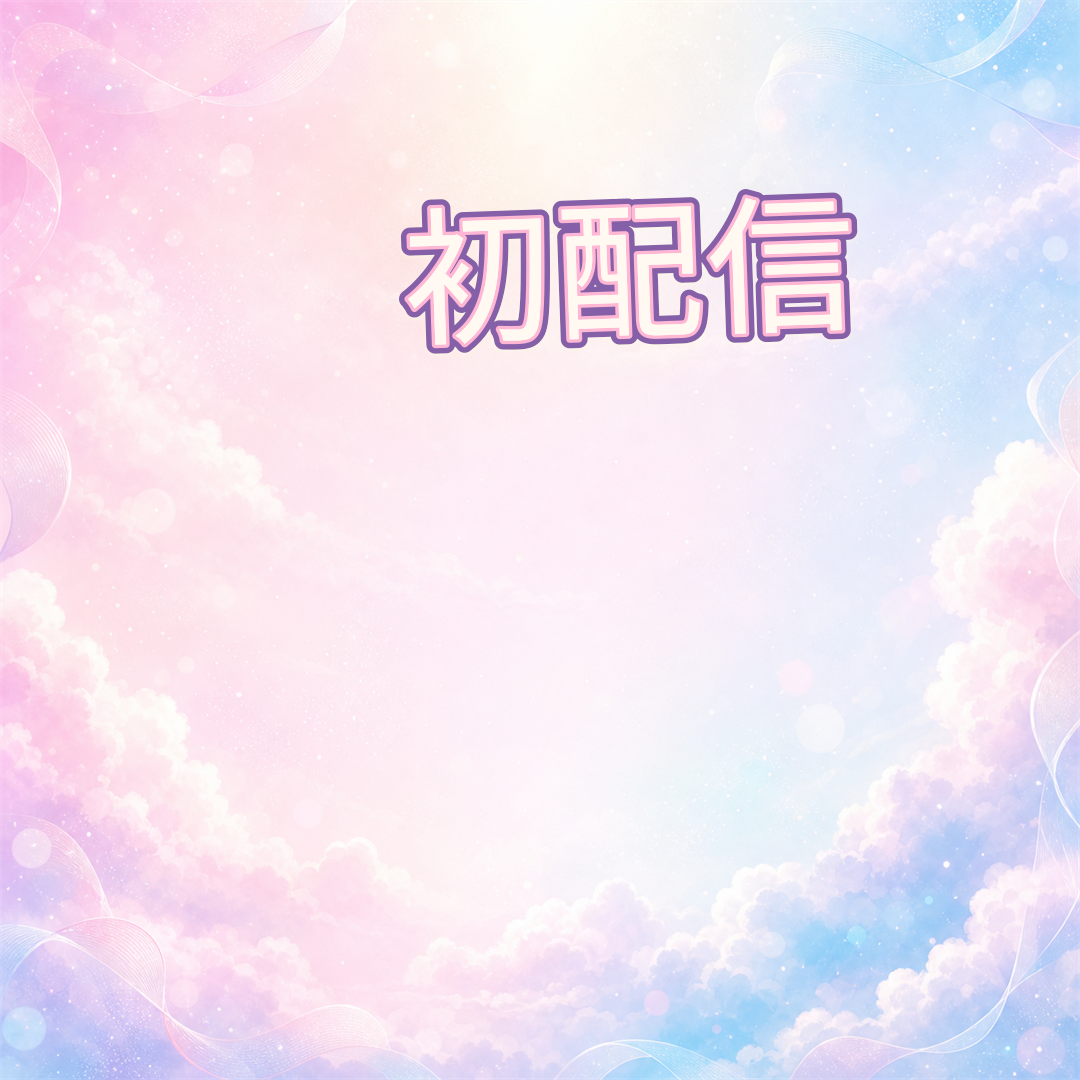
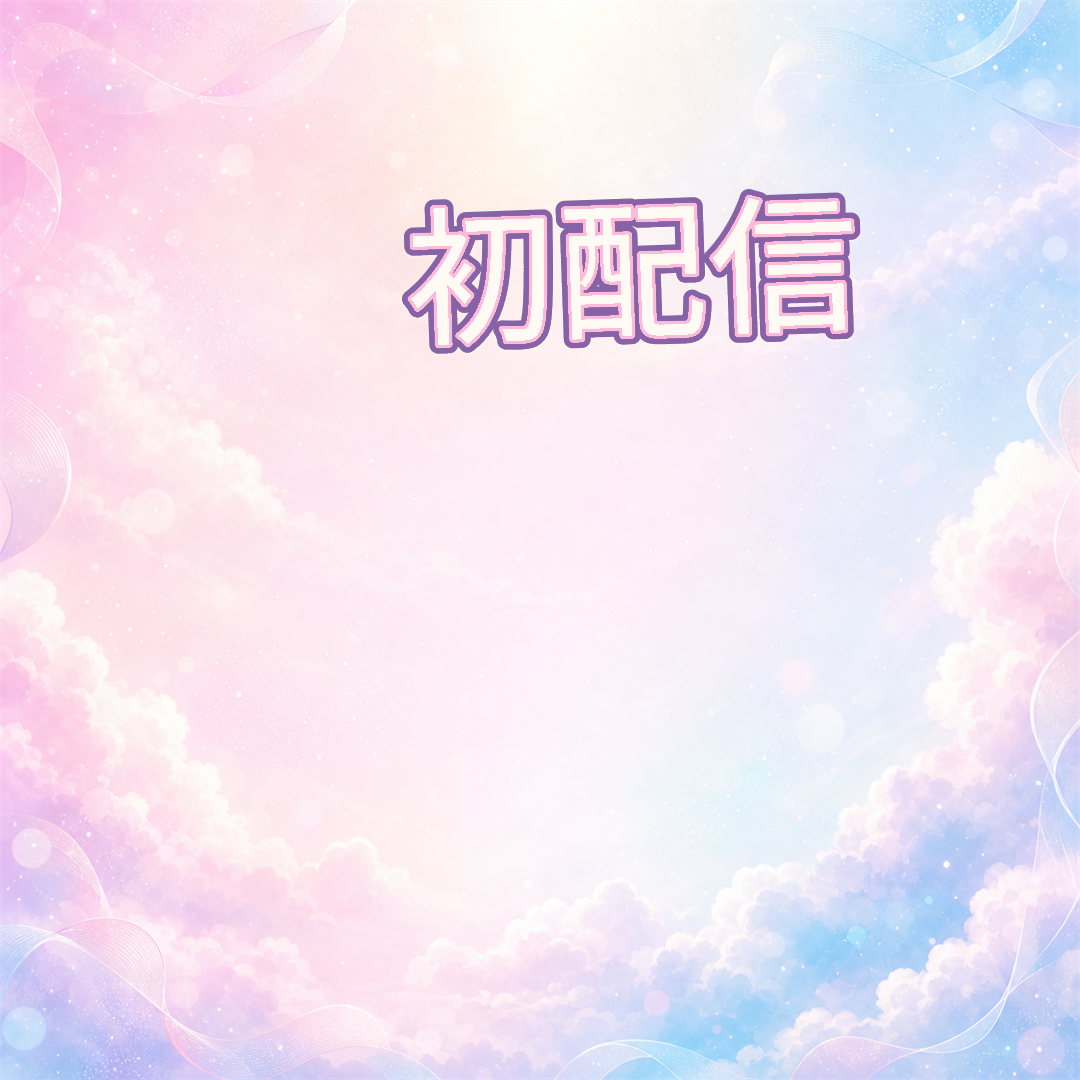
Add first stream IRIAM title colorways

Changed region(s): [[0.3667, 0.1833, 0.7333, 0.3361], [0.7639, 0.1833, 0.7944, 0.3056]]

diff --git a/task.md b/task.md
@@ -287,12 +287,12 @@
        - `node scripts/thumbnail-preset-discovery-contract.mjs` currently fails because that existing script still expects the category filter list before `membership_stream` / `asmr_stream` were added. This is not introduced by the `karaoke / square-1-1` change.
      - UI width checks for the reported 1:1 preview regression are recorded above.
 3. Thumbnail Editor title image / decoration asset phases
-   - status: `雑談` title image は `Yusei Magic`、`初配信` は `Mochiy Pop One`、`耐久` は `Dela Gothic One`、`闇ガチャ` は `New Tegomin` で確定。4フォントは selected title font として self-host 登録済み。次は各ジャンルを1つずつ5色カラバリへ進める。
+   - status: `初配信` title image 5色 slice を作成済み。`雑談` title image は `Yusei Magic`、`初配信` は `Mochiy Pop One`、`耐久` は `Dela Gothic One`、`闇ガチャ` は `New Tegomin` で確定。4フォントは selected title font として self-host 登録済み。次は残りジャンルを1つずつ5色カラバリへ進める。
    - title image:
      - 5ジャンル x 5色 = 25 transparent PNG 候補。
      - font 系統は `handwritten soft`（`Yusei Magic`）、`pop rounded`（`Mochiy Pop One` / `M PLUS Rounded 1c`）、`impact gothic`（`Dela Gothic One` / `Reggae One`）、`serif accent`（`Kaisei Opti` / `Noto Serif JP`）を基本にし、必要時だけ追加候補を検討する。
      - decoration policy: title image 内の星、ハート、リボン、小丸、カーブ線などの飾りは入れない。可読性のための fill / stroke / shadow のみで作る。
-     - next genre候補: `初配信`。`Mochiy Pop One` は方向が固まっているため、pink-blue 5色展開の前に 1:1 standee placeholder と重ねて過度に太すぎないか確認する。
+     - next genre候補: `雑談`。`Yusei Magic` 400 の方向が固まっており、同じ 5色 title image slice に切り出しやすい。
      - remaining risk: `耐久` は `Dela Gothic One` が汎用的な一方で、勢いを出すには stroke / shadow / rotation で補う必要がある。`闇ガチャ` は `New Tegomin` が有力だが、崩れを出しすぎると読みにくいため 5色展開前に dark background 上の縁取り太さを調整する。
      - 2026-05-24 visual check: selected baseline previews were re-opened locally:
        - `docs/mockups/thumbnail-editor-iriam-square-title-images/chatting/chatting-title-yusei-magic-mint-on-pop-bubble-preview.png`
@@ -301,6 +301,22 @@
        - `docs/mockups/thumbnail-editor-iriam-square-title-images/dark-gacha/dark-gacha-title-new-tegomin-glyph-verified-purple-on-dark-cute-preview.png`
      - 2026-05-24 verification: `node scripts/thumbnail-font-policy-contract.mjs`, `node scripts/thumbnail-iriam-karaoke-square-preset-contract.mjs`, `npx tsc --noEmit`, and `git diff --check` passed. `git diff --check` reported only LF/CRLF normalization warnings for touched files.
      - 2026-05-24 font asset check: selected title font files were re-downloaded with `font/woff2` accept headers and verified as WOFF2 (`wOF2`) before final verification.
+     - 2026-05-24 `初配信` 5色 title image slice:
+       - created title images:
+         - `public/assets/images/thumbnail-editor/iriam-square/first-stream/titles/first-stream-square-title-pink-blue-v1.png`
+         - `public/assets/images/thumbnail-editor/iriam-square/first-stream/titles/first-stream-square-title-blue-v1.png`
+         - `public/assets/images/thumbnail-editor/iriam-square/first-stream/titles/first-stream-square-title-yellow-v1.png`
+         - `public/assets/images/thumbnail-editor/iriam-square/first-stream/titles/first-stream-square-title-purple-v1.png`
+         - `public/assets/images/thumbnail-editor/iriam-square/first-stream/titles/first-stream-square-title-mint-v1.png`
+       - created previews:
+         - `docs/mockups/thumbnail-editor-iriam-square-title-images/first-stream/first-stream-title-mochiy-pop-one-pink-blue-on-soft-cloud-preview.png`
+         - `docs/mockups/thumbnail-editor-iriam-square-title-images/first-stream/first-stream-title-mochiy-pop-one-blue-on-soft-cloud-preview.png`
+         - `docs/mockups/thumbnail-editor-iriam-square-title-images/first-stream/first-stream-title-mochiy-pop-one-yellow-on-soft-cloud-preview.png`
+         - `docs/mockups/thumbnail-editor-iriam-square-title-images/first-stream/first-stream-title-mochiy-pop-one-purple-on-soft-cloud-preview.png`
+         - `docs/mockups/thumbnail-editor-iriam-square-title-images/first-stream/first-stream-title-mochiy-pop-one-mint-on-soft-cloud-preview.png`
+       - visual result: 5色とも soft_cloud 1:1 背景上で読める。装飾要素は追加せず、可読性用の fill / stroke / light outline のみに限定。
+       - verification result: 5 title images are 760 x 320 PNG RGBA with transparent pixels. 5 previews are 1080 x 1080 PNG RGBA.
+       - remaining risk: preview は既存 `karaoke` soft_cloud 背景での確認用。`初配信` 専用 1:1 背景や preset body にはまだ接続していない。
    - decoration:
      - 吹き出し、雲、星、ハート、リボン、きらきら、手描きライン、小ラベル。
      - 16:9 preset にも流用できる generic material として登録する。
